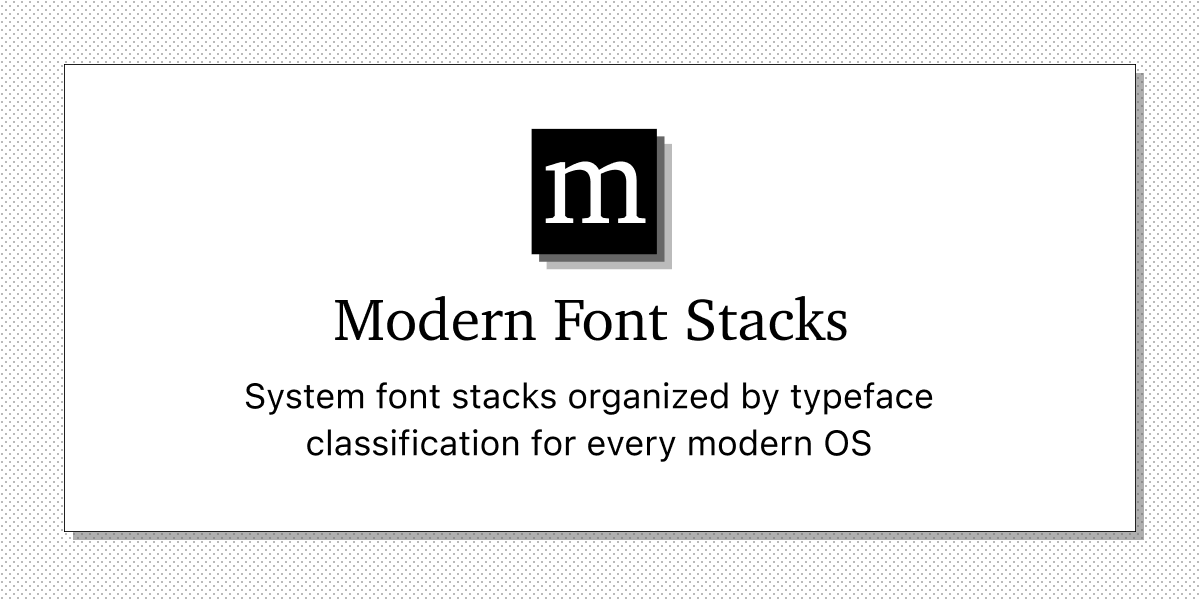
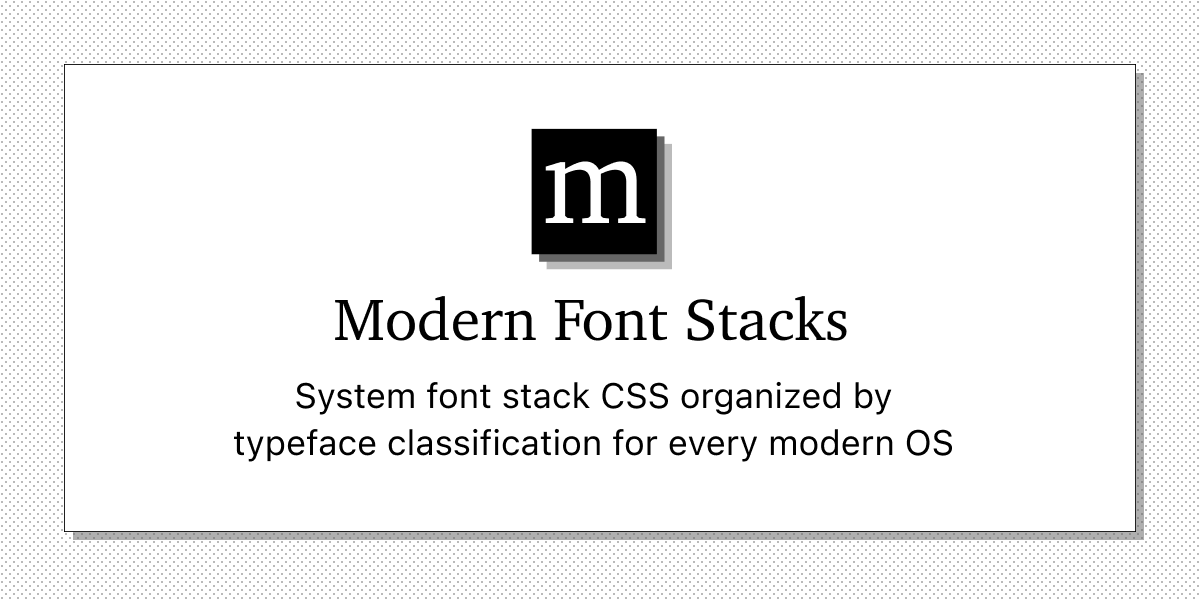
Small description tweak

Changed region(s): [[0.185, 0.72, 0.8017, 0.78], [0.185, 0.63, 0.7708, 0.69]]

diff --git a/site/src/index.html b/site/src/index.html
@@ -51,7 +51,7 @@
         </svg>
         <h1>Modern Font Stacks</h1>
       </a>
-      <h2>System font stacks organized by typeface classification for every modern OS</h2>
+      <h2>System font stack CSS organized by typeface classification for every modern OS</h2>
       <p>The fastest fonts available. No downloading, no layout shifts, no&nbsp;flashes — just instant&nbsp;renders.</p>
       <div id="about-buttons">
         <a href="#font-stacks" class="btn smooth-scroll">Try Font Stacks</a>

diff --git a/README.md b/README.md
@@ -5,7 +5,7 @@
 </p>
 
 <h1 align="center">Modern Font Stacks</h1>
-<h3 align="center">System font stacks organized by typeface classification for every modern OS</h3>
+<h3 align="center">System font stack CSS organized by typeface classification for every modern OS</h3>
 
 <p align="center">The fastest fonts available. No downloading, no layout shifts, no&nbsp;flashes — just instant&nbsp;renders.</p>
 
